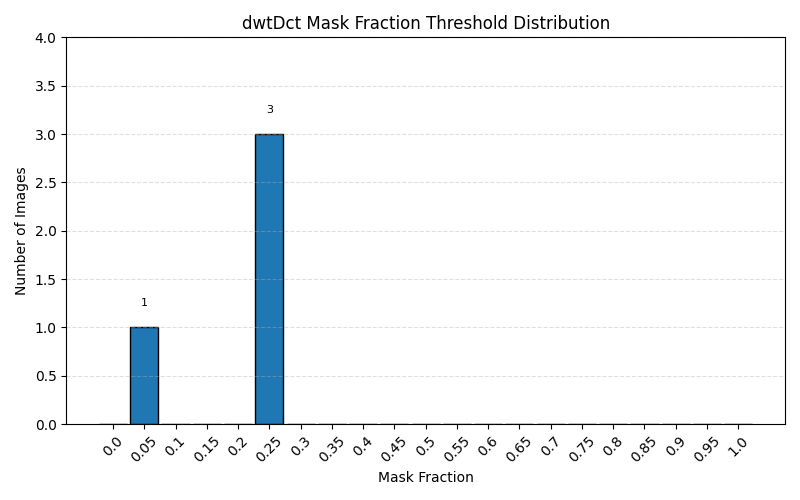
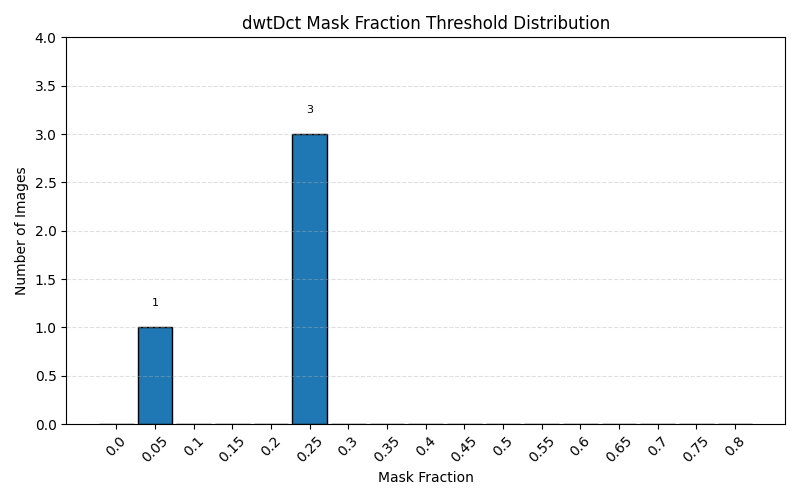
Increased font and legend

Changed region(s): [[0.125, 0.24, 0.5, 0.93], [0.5312, 0.87, 0.9375, 0.93]]

diff --git a/decode_lpips_results/visualize_LPIPS_vs_Threshold.py b/decode_lpips_results/visualize_LPIPS_vs_Threshold.py
@@ -2,7 +2,17 @@ import pandas as pd
 import matplotlib.pyplot as plt
 import os
 import seaborn as sns
+from matplotlib.pyplot import legend
 
+plt.rcParams.update({
+    'axes.titlesize': 18,
+    'axes.labelsize': 16,
+    'xtick.labelsize': 12,
+    'ytick.labelsize': 12,
+    'legend.fontsize': 14,
+    'legend.title_fontsize': 14,
+    'figure.titlesize': 20
+})
 
 def plot_lpips_vs_threshold(df, attack_name, method, image_name, output_dir):
     # Drop rows with missing threshold or lpips_score
@@ -230,6 +240,11 @@ def plot_lpips_vs_severity_with_decode_markers(base_dir="decode_lpips_results", 
     df_all = load_all_merged_data(base_dir)
     df_all = df_all[df_all["method"] == method]
 
+    label_map = {
+        "increase_brightness": "↑ brightness",
+        "decrease_brightness": "↓ brightness"
+    }
+
     # Ensure threshold column exists by mapping known variants
     threshold_column_candidates = ["threshold", "crop_ratio", "mask_fraction", "jpeg_quality", "brightness_factor",
                                    "noise_level", "overlay_opacity", "resize_factor", "rotate_degrees"]
@@ -287,14 +302,18 @@ def plot_lpips_vs_severity_with_decode_markers(base_dir="decode_lpips_results", 
             color = color_map[attack]
 
             # Plot full line (success + failure) with correct color
-            plt.plot(df_attack["semantic_severity"], df_attack["lpips_score"], "-", color=color)
+            display_label = label_map.get(attack, attack)
+            plt.plot(df_attack["semantic_severity"], df_attack["lpips_score"], "-", color=color, label=display_label)
 
             # Overlay markers for success/failure
             success = df_attack[df_attack["success"] == True]
             failure = df_attack[df_attack["success"] == False]
 
-            plt.plot(success["semantic_severity"], success["lpips_score"], "o", color=color, label=f"{attack} ✓")
-            plt.plot(failure["semantic_severity"], failure["lpips_score"], "x", color=color, label=f"{attack} ✗")
+            plt.plot(success["semantic_severity"], success["lpips_score"], "o", color=color)
+            plt.plot(failure["semantic_severity"], failure["lpips_score"], "x", color=color)
+
+        plt.plot([], [], 'o', color='gray', label='Success')
+        plt.plot([], [], 'x', color='gray', label='Failure')
 
         plt.title(f"LPIPS vs Semantic Severity with Decode Status — {image} ({method})")
         plt.xlabel("Semantic Severity (0 = weakest attack, 1 = strongest)")
@@ -481,11 +500,30 @@ def plot_avg_first_failure_lpips(df_summary, save_path=None, base_dir="decode_lp
         x="attack", y="lpips_score", hue="method", ci=None
     )
     plt.title("Average LPIPS Score at First Decode Failure (Per Attack)")
-    plt.ylabel("Average LPIPS Score at First Failure")
+    plt.ylabel("Avg LPIPS Score at First Failure")
     plt.xlabel("Attack Type")
     lpips_max = avg_df["lpips_score"].max()
     plt.ylim(0, lpips_max + 0.05)
-    plt.xticks(rotation=45)
+
+    # Custom short attack names for cleaner x-axis
+    short_attack_labels = {
+        "decrease_brightness": "↓ Brightness",
+        "increase_brightness": "↑ Brightness",
+        "jpeg": "JPEG",
+        "noise": "Noise",
+        "mask": "Mask",
+        "overlay": "Overlay",
+        "resize": "Resize",
+        "rotate": "Rotate",
+        "denoising": "Denoise",
+        "upscale": "Upscale"
+    }
+
+    # Apply new labels to x-ticks
+    current_labels = [tick.get_text() for tick in plt.gca().get_xticklabels()]
+    new_labels = [short_attack_labels.get(label, label) for label in current_labels]
+    plt.xticks(ticks=plt.gca().get_xticks(), labels=new_labels, rotation=45)
+
     plt.tight_layout()
 
     if save_path:
@@ -500,12 +538,14 @@ def plot_avg_first_failure_lpips(df_summary, save_path=None, base_dir="decode_lp
 
 if __name__ == "__main__":
     #plot_avg_lpips_by_threshold("decode_lpips_results")
-    #plot_lpips_vs_severity_with_decode_markers(method="dwtDctSvd")
-
-    df_summary = extract_first_failure_lpips_from_csv()
-    plot_avg_first_failure_lpips(df_summary, "LPIPS_Threshold_Graphs/avg_first_failure_lpips.png")
+    plot_lpips_vs_severity_with_decode_markers(method="dwtDctSvd")
 
     '''
+    df_summary = extract_first_failure_lpips_from_csv()
+    plot_avg_first_failure_lpips(df_summary, "LPIPS_Threshold_Graphs/avg_first_failure_lpips.png")
+    '''
+
+'''
     # Step 1: Extract the summary from the CSVs
     df_summary = extract_first_failure_lpips_from_csv()
 

diff --git a/threshold_tests/summarize_results.py b/threshold_tests/summarize_results.py
@@ -128,11 +128,21 @@ def plot_combined_distribution(
         bin_centers: List[float],
         bin_width: float = 1.0
 ):
+    plt.rcParams.update({
+        'axes.titlesize': 21,
+        'axes.labelsize': 16,
+        'xtick.labelsize': 13,
+        'ytick.labelsize': 13,
+        'legend.fontsize': 15,
+        'legend.title_fontsize': 15,
+        'figure.titlesize': 21
+    })
+
     num_methods = len(thresholds_by_method)
     bar_width = bin_width / num_methods * 0.9
     method_names = list(thresholds_by_method.keys())
 
-    plt.figure(figsize=(12, 6))
+    plt.figure(figsize=(10, 6))
     max_count = 0  # for dynamic y-axis scaling
 
     for i, method in enumerate(method_names):
@@ -169,9 +179,9 @@ def plot_combined_distribution(
                     fontsize=8
                 )
 
-    plt.title(f"Combined {metric_label} Threshold Distribution", fontsize=13)
-    plt.xlabel(metric_label, fontsize=11)
-    plt.ylabel("Number of Images", fontsize=11)
+    plt.title(f"Combined {metric_label} Threshold Distribution")
+    plt.xlabel(metric_label)
+    plt.ylabel("Number of Images")
     plt.xticks(bin_centers, [str(x) for x in bin_centers], rotation=45)
     plt.ylim(0, max_count + 1)
     plt.legend()
@@ -773,15 +783,15 @@ if __name__ == "__main__":
         methods=["dwtDct", "dwtDctSvd", "rivaGan"],
         colors={"dwtDct": "skyblue", "dwtDctSvd": "lightgreen", "rivaGan": "salmon"}
     )
-    
+    '''
     summarize_mask_threshold(
-        results_root="threshold_tests/mask_test_results",
-        metric="mask_fraction",  # this should match the column name in your CSV
+        results_root="threshold_tests/512x512/mask_test_results",
+        metric="mask_fraction",
         metric_label="Mask Fraction",
         methods=["dwtDct", "dwtDctSvd", "rivaGan"],
         colors={"dwtDct": "skyblue","dwtDctSvd": "lightgreen","rivaGan": "salmon"}
     )
-
+    '''
     summarize_overlay_threshold(
         results_root="threshold_tests/overlay_test_results",
         metric="alpha",
@@ -813,7 +823,7 @@ if __name__ == "__main__":
 
     # Calls for original img threshold tests below
     # Only for dwtDct and dwtDctSvd methods -- large images use too much RAM for rivaGan
-    
+    '''
     summarize_noise_threshold(
         results_root="threshold_tests/original/noise_test_results",
         metric="std_dev",
@@ -887,7 +897,7 @@ if __name__ == "__main__":
         methods=["dwtDct", "dwtDctSvd"],
         colors={"dwtDct": "skyblue", "dwtDctSvd": "lightgreen"}
     )
-
+    '''
     # Summary for binary results
     '''
     summarize_upscale_results(
